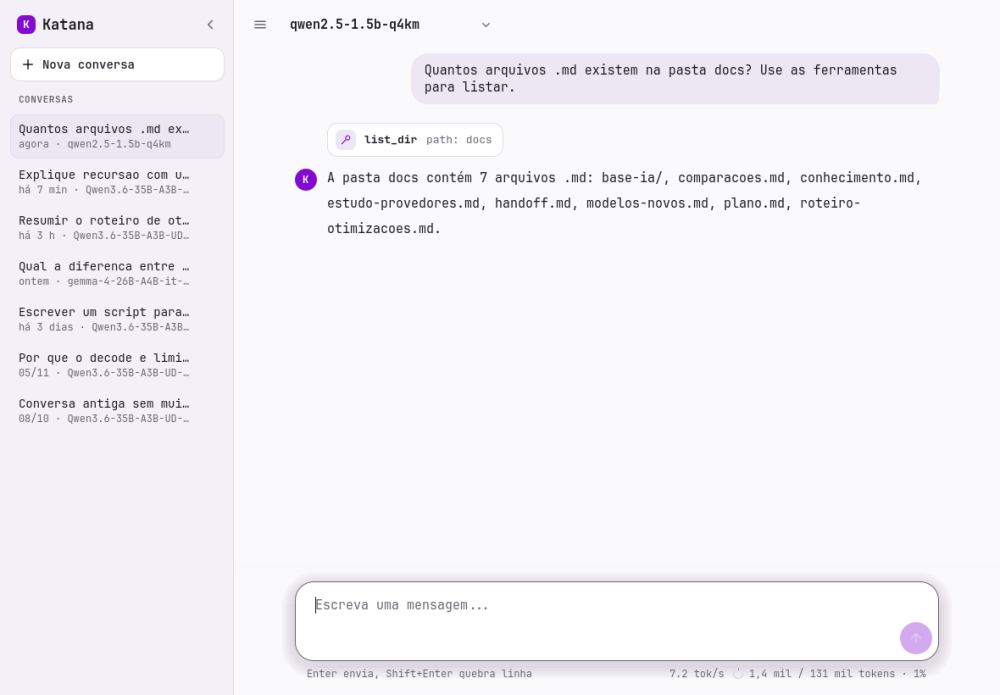
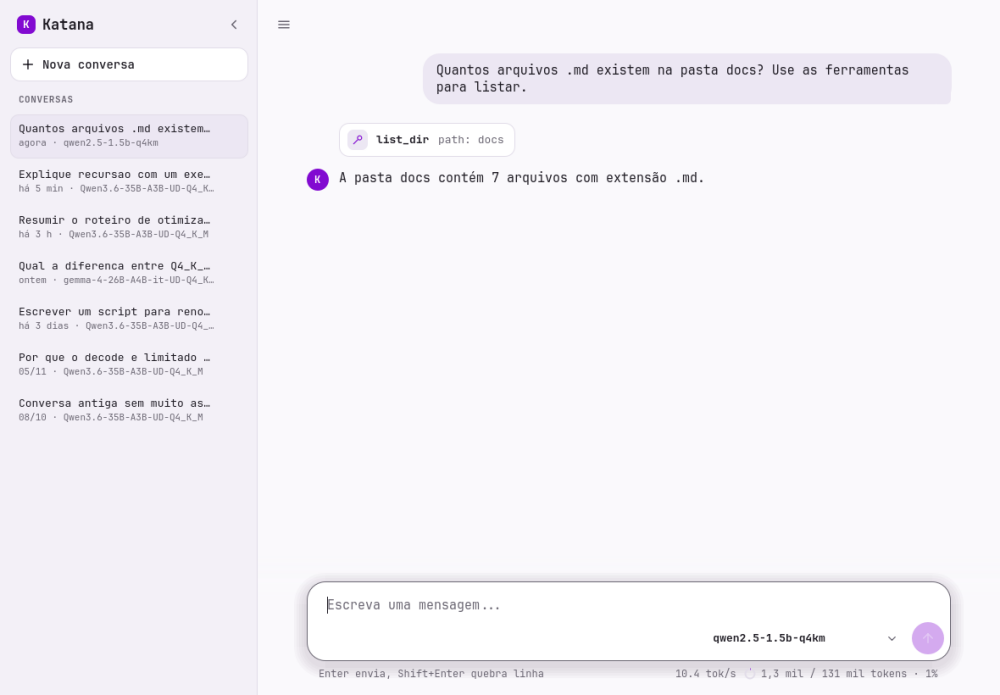
katana-desktop: seletor de modelo embaixo da caixa de texto (lista abre para cima); lateral mais larga e lista menor para a fonte mono

diff --git a/desktop-qt/qml/ModelPicker.qml b/desktop-qt/qml/ModelPicker.qml
@@ -9,7 +9,9 @@ ComboBox {
     model: backend.models
     textRole: "name"
     implicitHeight: 38
-    implicitWidth: Math.min(380, Math.max(200, lbl.implicitWidth + 64))
+    property real maxWidth: 380
+    property bool compact: false
+    implicitWidth: Math.min(maxWidth, Math.max(compact ? 120 : 200, lbl.implicitWidth + 64))
     hoverEnabled: true
     focusPolicy: Qt.StrongFocus
     Accessible.name: "Escolher modelo"
@@ -48,7 +50,7 @@ ComboBox {
         elide: Text.ElideRight
         verticalAlignment: Text.AlignVCenter
         color: Theme.fg
-        font.pixelSize: 15
+        font.pixelSize: cb.compact ? 13 : 15
         font.weight: Font.DemiBold
     }
     indicator: Icon {
@@ -109,7 +111,8 @@ ComboBox {
     }
 
     popup: Popup {
-        y: cb.height + 6
+        y: cb.compact ? -height - 6 : cb.height + 6
+        x: cb.compact ? cb.width - width : 0
         width: Math.min(420, (cb.Window.width || 420) - 28)
         height: Math.min(list.contentHeight + 12, 460)
         padding: 6

diff --git a/desktop-qt/qml/Sidebar.qml b/desktop-qt/qml/Sidebar.qml
@@ -156,7 +156,7 @@ Rectangle {
                             text: row.modelData.titulo || "(sem título)"
                             elide: Text.ElideRight
                             color: Theme.fg
-                            font.pixelSize: 14
+                            font.pixelSize: 13
                         }
                         Text {
                             width: openBtn.width - 14
@@ -164,7 +164,7 @@ Rectangle {
                                   + (row.modelData.modelo ? " · " + side.shortModel(row.modelData.modelo) : "")
                             elide: Text.ElideRight
                             color: Theme.mut
-                            font.pixelSize: 12
+                            font.pixelSize: 11
                         }
                     }
                 }

diff --git a/desktop-qt/qml/Composer.qml b/desktop-qt/qml/Composer.qml
@@ -93,6 +93,18 @@ Item {
             }
         }
 
+        // seletor de modelo embaixo da caixa, ao lado do botao de enviar (a lista abre para cima)
+        ModelPicker {
+            id: picker
+            anchors.right: sendBtn.left
+            anchors.rightMargin: 4
+            anchors.bottom: parent.bottom
+            anchors.bottomMargin: 8
+            implicitHeight: 38
+            maxWidth: Math.max(140, box.width - 38 - 8 - 4 - 16)
+            compact: true
+        }
+
         IconButton {
             id: sendBtn
             objectName: "sendButton"

diff --git a/desktop-qt/qml/MessageView.qml b/desktop-qt/qml/MessageView.qml
@@ -258,7 +258,7 @@ Item {
                 wrapMode: Text.Wrap
                 color: Theme.mut
                 font.pixelSize: 15
-                text: !backend.running && !backend.loading ? "Escolha um modelo no topo para iniciar o agente."
+                text: !backend.running && !backend.loading ? "Escolha um modelo embaixo, ao lado de enviar, para iniciar o agente."
                       : backend.loading ? "Carregando o modelo, pode levar alguns minutos..."
                       : "Escreva abaixo ou comece por uma sugestão."
             }

diff --git a/desktop-qt/qml/Theme.qml b/desktop-qt/qml/Theme.qml
@@ -26,6 +26,6 @@ QtObject {
     readonly property color err: dark ? dk.err : lt.err
     readonly property color foc: dark ? dk.foc : lt.foc
     readonly property color shadow: dark ? dk.shadow : lt.shadow
-    readonly property int sideWidth: 276
+    readonly property int sideWidth: 304
     readonly property int colWidth: 760
 }

diff --git a/desktop-qt/qml/Main.qml b/desktop-qt/qml/Main.qml
@@ -71,7 +71,6 @@ ApplicationWindow {
                     tip: "Mostrar ou ocultar a lateral"
                     onClicked: win.toggleSide()
                 }
-                ModelPicker { Layout.maximumWidth: parent.width - 120 }
                 Item { Layout.fillWidth: true }
             }
 

diff --git a/desktop-qt/README.md b/desktop-qt/README.md
@@ -9,7 +9,7 @@ Janela propria em Qt Quick; sem navegador e sem servidor HTTP. O backend (C++17)
   `cp desktop-qt/build/katana-desktop-qt katana-desktop`.
 - Rodar: `./katana-desktop-qt` (ou o binario copiado). Opcoes: `--katana CAMINHO`, `--models PASTA`.
   O `katana` e `modelos/` sao procurados ao lado do binario, em `..` e no diretorio atual.
-- Modelo: dropdown no topo. Padrao Qwen3.6-35B (inicia sozinho); tambem utilizavel: Gemma 4.
+- Modelo: seletor embaixo da caixa de texto, ao lado de enviar (a lista abre para cima). Padrao Qwen3.6-35B (inicia sozinho); tambem utilizavel: Gemma 4.
   Os demais aparecem desabilitados ("ainda nao esta utilizavel no agente").
 - Lateral esquerda recolhivel (em janela estreita vira gaveta): "Nova conversa" e as conversas salvas
   (titulo, hora relativa, modelo); lixeira ao passar o mouse, com confirmacao na propria interface.
